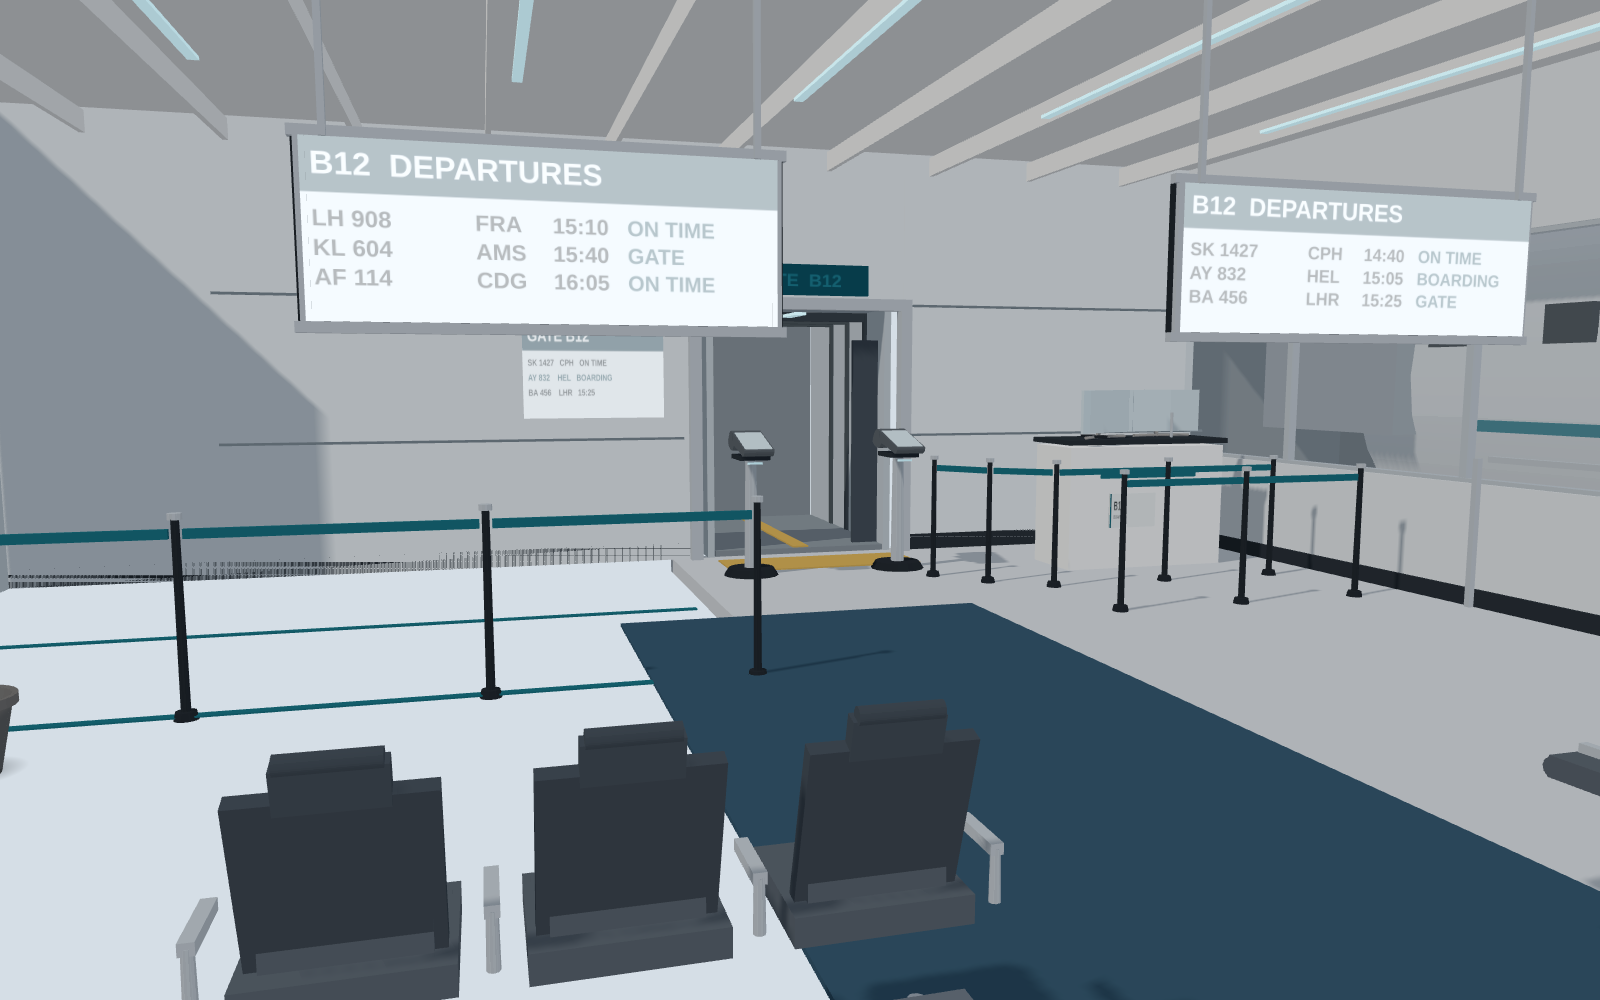
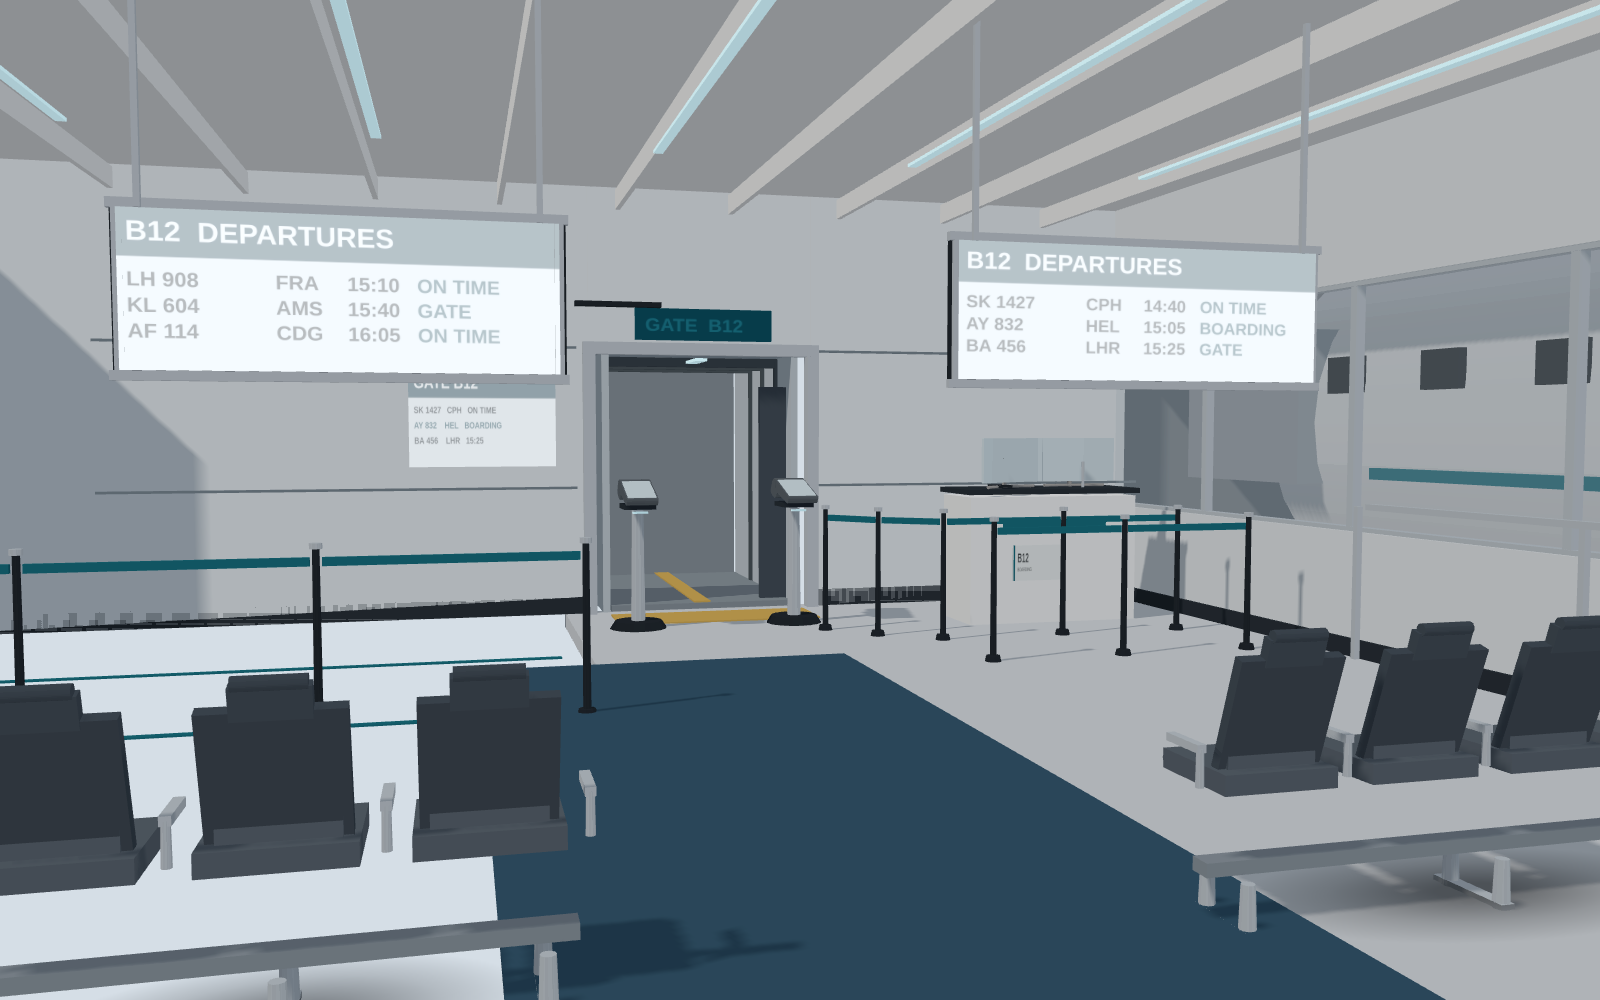
Clear the stool behind the end seat and tighten the Gate B12 view.
Drop the cafe pedestal that lined up with the south bank. Shift the establishing camera so both ribbons, the door header, the queue, and the seat backs share the frame.

diff --git a/experiments/indoor30-20261113/airport-gate/refs/GAP.md b/experiments/indoor30-20261113/airport-gate/refs/GAP.md
@@ -13,7 +13,7 @@ No beam seat, gate podium, stanchion, or flight ribbon exists in those bakes. `s
 
 - Curved desktop monitor on the podium. Not a gate CRT.
 - Cafe POS terminal as the scanner head. It reads as a tilted reader after yawing the screen toward the queue. It is not a boarding-pass scanner.
-- Cafe bar stool at the work ledge. The seat was tinted off pure black. The base is still a cafe pedestal.
+- Two cafe bar stools remain at the work ledge. The seat was tinted off pure black. The base is still a cafe pedestal. The third stool, which lined up behind the south seat bank, was removed.
 - Flowerpot, with block foliage added in the scene. One cup on the ledge, retinted off the original yellow.
 
 ## Still open
